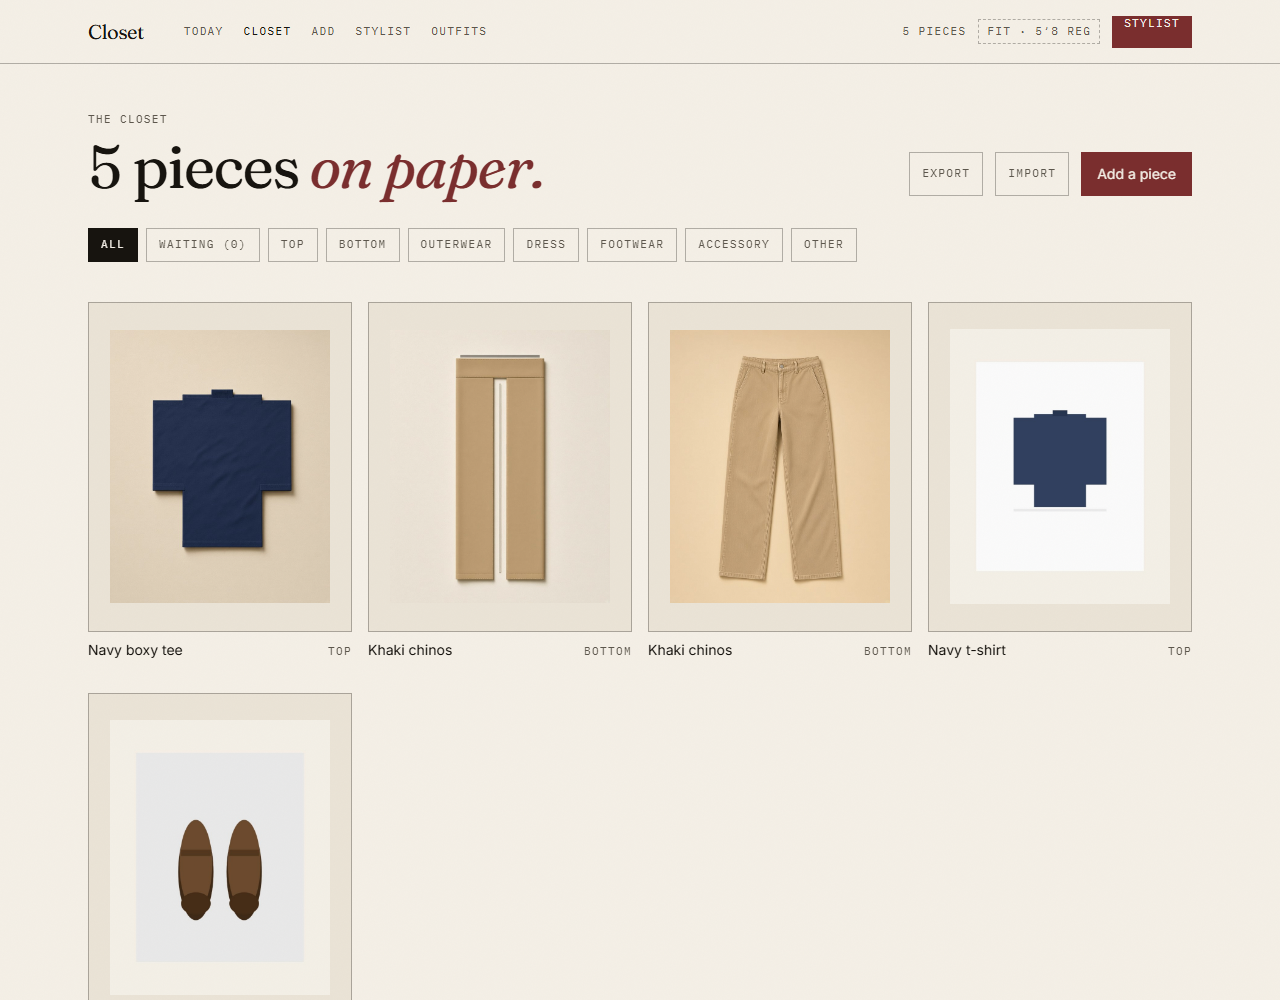
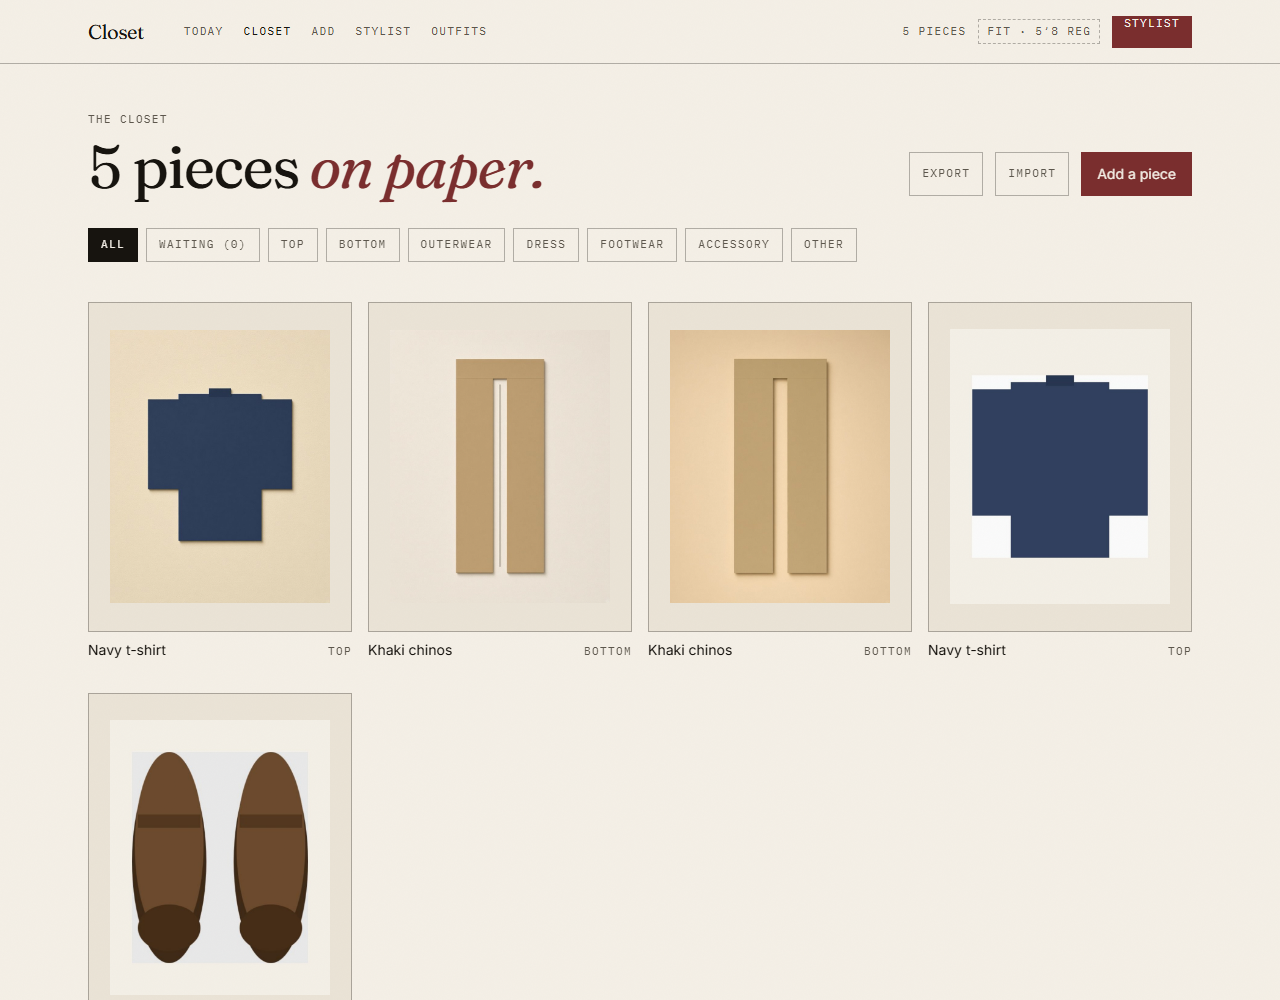
Screenshots unwrapped, prints fill the page, drawer gains On me
- matte: detect shopping-page screenshots (white frame + black chrome
  bands) so they take the edit path; grok extracts only the garment,
  never the webpage. Official product shots crop to content bounds and
  fill ~80% of the 4:5 tile instead of a postage stamp.
- print prompt: screenshot clause, 80% fill.
- tiles lift 6px on hover; flat-lay scatter eased to 280ms.
- drawer: Original | Print | On me (tab appears once a reference photo
  is set; revert button stays off that view).

diff --git a/src/components/closet/detail.tsx b/src/components/closet/detail.tsx
@@ -1,5 +1,6 @@
 import { useState } from "react";
 import { GarmentImg } from "@/components/closet/gimg";
+import { OnMePanel } from "@/components/closet/on-me";
 import { Button } from "@/components/ui/button";
 import { costPerWear, money } from "@/lib/look";
 import { HOUSE_LABEL, daysIdle, housesOf } from "@/lib/style";
@@ -22,7 +23,8 @@ export function GarmentDetail({
   const [paid, setPaid] = useState(
     garment.paid != null ? String(garment.paid) : "",
   );
-  const [view, setView] = useState<"print" | "original">("print");
+  const refPhoto = useCloset((s) => s.refPhoto);
+  const [view, setView] = useState<"print" | "original" | "me">("print");
   const [name, setName] = useState(garment.name);
   const originalSrc = useImageSrc(garment.imageSrc);
   const usingOriginal = garment.cutoutSrc === garment.imageSrc;
@@ -51,22 +53,26 @@ export function GarmentDetail({
       />
       <div className="relative z-10 w-full max-w-3xl max-h-[92dvh] overflow-auto bg-paper border border-hairline md:grid md:grid-cols-2">
         <div>
-          <div className="bg-paper-deep aspect-page">
-            {view === "print" ? (
-              <GarmentImg
-                garment={garment}
-                className="h-full w-full object-contain p-[8%]"
-              />
-            ) : originalSrc ? (
-              <img
-                src={originalSrc}
-                alt={garment.name}
-                className="h-full w-full object-contain p-[8%]"
-              />
-            ) : (
-              <div className="h-full w-full" aria-hidden />
-            )}
-          </div>
+          {view === "me" ? (
+            <OnMePanel pieces={[garment]} />
+          ) : (
+            <div className="bg-paper-deep aspect-page">
+              {view === "print" ? (
+                <GarmentImg
+                  garment={garment}
+                  className="h-full w-full object-contain p-[8%]"
+                />
+              ) : originalSrc ? (
+                <img
+                  src={originalSrc}
+                  alt={garment.name}
+                  className="h-full w-full object-contain p-[8%]"
+                />
+              ) : (
+                <div className="h-full w-full" aria-hidden />
+              )}
+            </div>
+          )}
           <div className="flex border-t border-hairline">
             {(["print", "original"] as const).map((v) => (
               <button
@@ -81,8 +87,20 @@ export function GarmentDetail({
                 {v === "print" ? "Print" : "Original"}
               </button>
             ))}
+            {refPhoto && (
+              <button
+                type="button"
+                onClick={() => setView("me")}
+                className={cn(
+                  "micro flex-1 py-2",
+                  view === "me" ? "bg-ink text-paper" : "text-ink-soft",
+                )}
+              >
+                On me
+              </button>
+            )}
           </div>
-          {!usingOriginal && (
+          {!usingOriginal && view !== "me" && (
             <button
               type="button"
               onClick={() => {

diff --git a/src/lib/matte.ts b/src/lib/matte.ts
@@ -9,7 +9,7 @@ const BORDER = 10;
 const OUTLIER_TOL = 34;
 const OUT_W = 720;
 const OUT_H = 900;
-const PAD = 0.12;
+const PAD = 0.1;
 
 export type MatteQuality = "clean" | "ok" | "busy";
 
@@ -131,6 +131,58 @@ function looksOfficial(
   const spread =
     Math.max(bg.r, bg.g, bg.b) - lo;
   return frac <= 0.06 && mad <= 6 && lo >= 200 && spread <= 10;
+}
+
+/** Shopping-page screenshots also have a white border, but the top/bottom
+ *  bands carry nav text, prices, "Add to bag". Dense dark ink there means
+ *  page chrome — extract the garment, never frame the webpage. */
+function looksScreenshot(data: Uint8ClampedArray, w: number, h: number): boolean {
+  const band = Math.max(8, Math.round(h * 0.09));
+  let dark = 0;
+  let n = 0;
+  for (const [y0, y1] of [
+    [0, band],
+    [h - band, h],
+  ] as const) {
+    for (let y = y0; y < y1; y++) {
+      for (let x = 0; x < w; x += 2) {
+        const i = (y * w + x) * 4;
+        n++;
+        if (data[i]! < 90 && data[i + 1]! < 90 && data[i + 2]! < 90) dark++;
+      }
+    }
+  }
+  return n > 0 && dark / n > 0.004;
+}
+
+/** Bbox of everything that is not the (uniform, clean) background. Used to
+ *  fill official shots to ~80% of the page instead of a postage stamp. */
+function contentBounds(
+  data: Uint8ClampedArray,
+  w: number,
+  h: number,
+  bg: { r: number; g: number; b: number },
+  tol: number,
+) {
+  const t = Math.max(30, tol);
+  let minX = w;
+  let minY = h;
+  let maxX = 0;
+  let maxY = 0;
+  let count = 0;
+  for (let y = 0; y < h; y++) {
+    for (let x = 0; x < w; x++) {
+      const i = (y * w + x) * 4;
+      if (dist(data[i]!, data[i + 1]!, data[i + 2]!, bg.r, bg.g, bg.b) <= t) continue;
+      count++;
+      if (x < minX) minX = x;
+      if (y < minY) minY = y;
+      if (x > maxX) maxX = x;
+      if (y > maxY) maxY = y;
+    }
+  }
+  if (count < w * h * 0.02 || maxX <= minX || maxY <= minY) return null;
+  return { minX, minY, maxX, maxY };
 }
 
 function sampleForeground(
@@ -275,9 +327,11 @@ export async function matteToPaper(imageSrc: string): Promise<MatteResult> {
   const image = ctx.getImageData(0, 0, canvas.width, canvas.height);
   const { bg, frac, mad, floodTol } = sampleBorder(image.data, canvas.width, canvas.height);
 
-  if (looksOfficial(bg, frac, mad)) {
+  if (looksOfficial(bg, frac, mad) && !looksScreenshot(image.data, canvas.width, canvas.height)) {
+    // Clean product shot: crop to the garment so it fills the page.
+    const box = contentBounds(image.data, canvas.width, canvas.height, bg, floodTol);
     return {
-      cutoutSrc: compositePaper(canvas, null),
+      cutoutSrc: compositePaper(canvas, box),
       quality: "clean",
       official: true,
       reason: "Already a catalog shot — centered on paper, pixels untouched.",

diff --git a/src/lib/ai.ts b/src/lib/ai.ts
@@ -137,7 +137,7 @@ export const printGarment = createServerFn({ method: "POST" })
         model: "grok-imagine-image-2.0",
         image: { url: data.image },
         prompt:
-          "Catalog product photo of the SINGLE garment in this photo. Keep the exact color, fabric, stitching, hardware, and wear. Remove the floor, wall, hanger, hands, and any room. Lay the garment flat on a warm paper background (#F4EFE6), 4:5 portrait, filling the frame. Do not replace or invent clothing.",
+          "Catalog product photo of the SINGLE garment in this image. If this is a screenshot of a shopping page or order email (prices, buttons, color dots, text, navigation), extract ONLY the garment — never frame the webpage. Keep the exact color, fabric, stitching, hardware, and wear. Remove the floor, wall, hanger, hands, and any room. Lay the garment flat on a warm paper background (#F4EFE6), 4:5 portrait, filling about 80% of the frame. Do not replace or invent clothing.",
       }),
     });
     return readEditedImage(res);

diff --git a/src/components/closet/tile.tsx b/src/components/closet/tile.tsx
@@ -21,7 +21,7 @@ export function GarmentTile({
         selected && "outline outline-1 outline-ink",
       )}
     >
-      <div className="relative bg-paper-deep border border-hairline overflow-hidden aspect-page transition-all duration-500 ease-[var(--ease-atelier)] group-hover:-translate-y-1 group-hover:shadow-[0_14px_34px_-14px_rgb(23_20_15/0.3)]">
+      <div className="relative bg-paper-deep border border-hairline overflow-hidden aspect-page transition-all duration-300 ease-[var(--ease-atelier)] group-hover:-translate-y-1.5 group-hover:shadow-[0_16px_36px_-14px_rgb(23_20_15/0.3)]">
         <GarmentImg
           garment={garment}
           className="absolute inset-0 h-full w-full object-contain p-[8%]"

diff --git a/src/styles.css b/src/styles.css
@@ -88,7 +88,7 @@
 
 .flat-piece {
   transform: translate(var(--rx, 0), var(--ry, 0)) rotate(var(--rr, 0deg));
-  transition: transform 700ms var(--ease-atelier);
+  transition: transform 280ms var(--ease-atelier);
   will-change: transform;
 }
 
